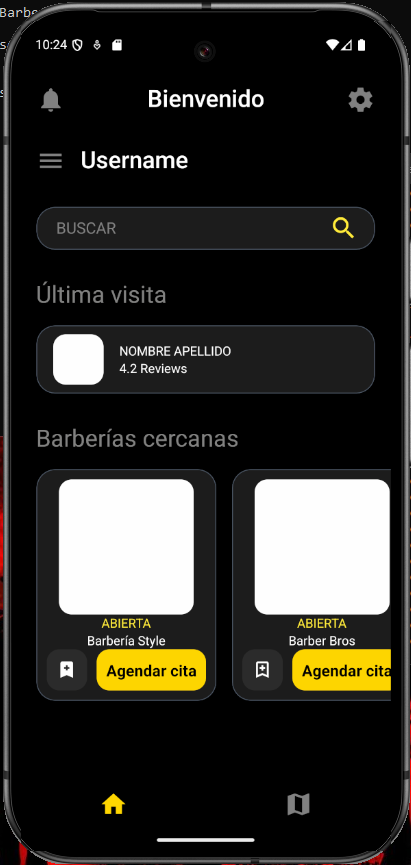
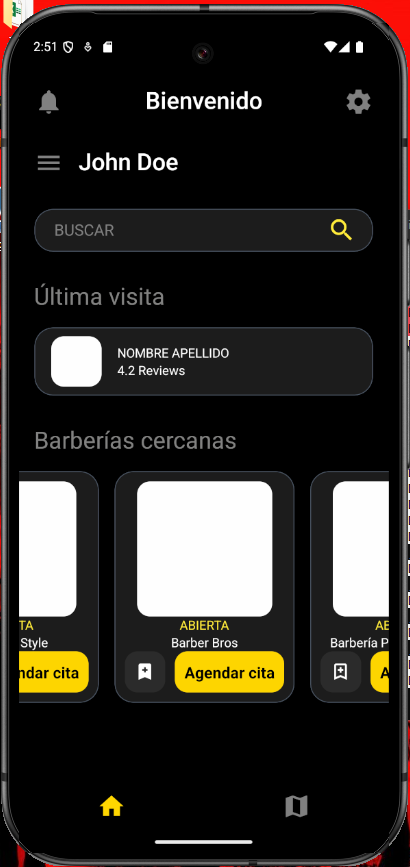
app receive username from database

diff --git a/app/(tabs)/menu.js b/app/(tabs)/menu.js
@@ -8,6 +8,7 @@ import {api} from "../../api";
 
 export default function Menu() {
     const [barbershops, setBarbershops] = useState([]);
+    const [user, setUser] = useState([]);
 
     // Cargar barberías y sus estados de bookmark
     useEffect(() => {
@@ -18,6 +19,10 @@ export default function Menu() {
 
                 // Obtener estado de bookmarks para el usuario actual
                 const bookmarkData = await api.getAllBookmarks(); // userId fijo por ahora
+
+                const userId = 1; // Usuario fijo por ahora
+                const userData = await api.getUserData(userId);
+                setUser(userData);
 
                 // Combinar datos de barberías con sus estados de bookmark
                 const barbershopsWithBookmarks = barberData.map(shop => ({
@@ -78,7 +83,8 @@ export default function Menu() {
                 </View>
             </Simple_Gray_Box>
         );
-    }
+    };
+
     return (
         <View className={"flex-1 bg-black"}>
             <View className={"flex-row m-5 justify-between"}>
@@ -97,7 +103,7 @@ export default function Menu() {
                     <MaterialCommunityIcons name="menu" size={32} color="gray"/>
                 </Pressable>
                 <Text className={"text-white font-medium text-3xl ml-5"}>
-                    Username
+                    {user.username}
                 </Text>
             </View>
 

diff --git a/server/index.js b/server/index.js
@@ -132,7 +132,17 @@ app.get('/api/user/bookmarks', async (req, res) => {
         );
         res.json(result.rows);
     } catch (err) {
-        res.status(500).json({ error: err.message });
+        res.status(500).json({error: err.message});
+    }
+});
+
+app.get('/api/user/:userId', async (req, res) => {
+    try {
+        const {userId} = req.params;
+        const result = await pool.query("SELECT * FROM users WHERE id = $1", [userId]);
+        res.json(result.rows[0]);
+    } catch (err) {
+        res.status(500).json({error: err.message});
     }
 });
 

diff --git a/api/index.js b/api/index.js
@@ -69,6 +69,16 @@ export const api = {
             console.error('Error fetching bookmarks:', error);
             throw error;
         }
+    },
+
+    getUserData: async (userId) => {
+        try {
+            const response = await axios.get(`${API_URL}/user/${userId}`);
+            return response.data;
+        } catch (error) {
+            console.error('Error fetching user data:', error);
+            throw error;
+        }
     }
 
 };
